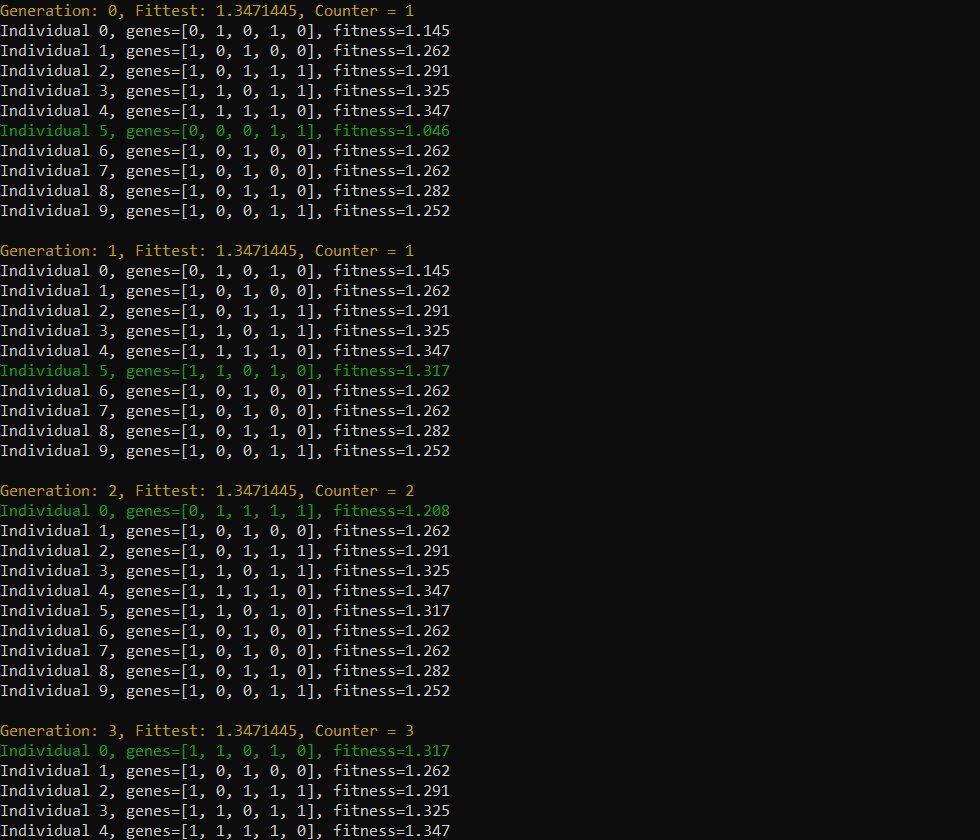
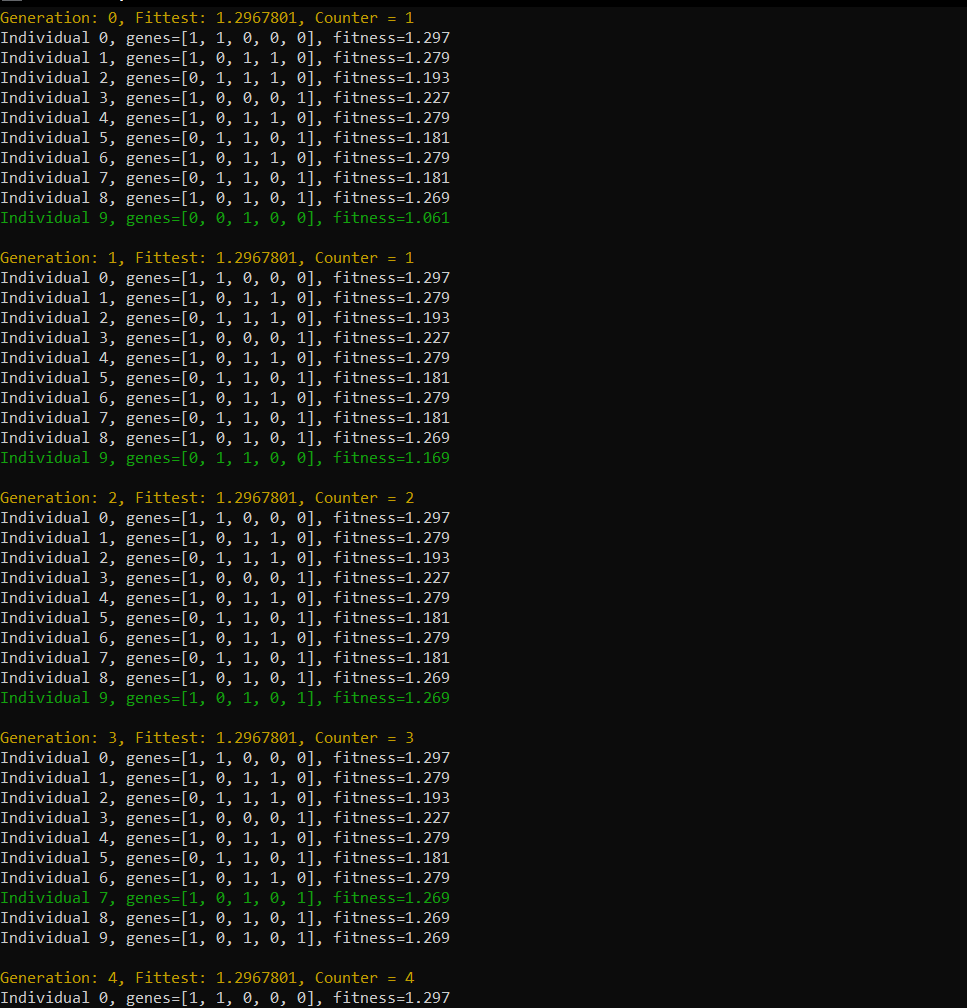
Fixed fitness function caluclation

Changed region(s): [[0.0, 0.0, 0.4654, 1.0]]

diff --git a/src/main/java/kelompok3/genetic/algorithm/model/Individual.java b/src/main/java/kelompok3/genetic/algorithm/model/Individual.java
@@ -39,7 +39,7 @@ public class Individual {
         }
 
         // Get x value
-        float xAxis = (float) ((result * 1.0) / ((2<<geneLength)-1));
+        float xAxis = (float) ((result * 1.0) / (2<<geneLength));
 
         // Get y value as fitness value
         fitness = (float) (Math.sin(xAxis) + Math.cos(xAxis));
